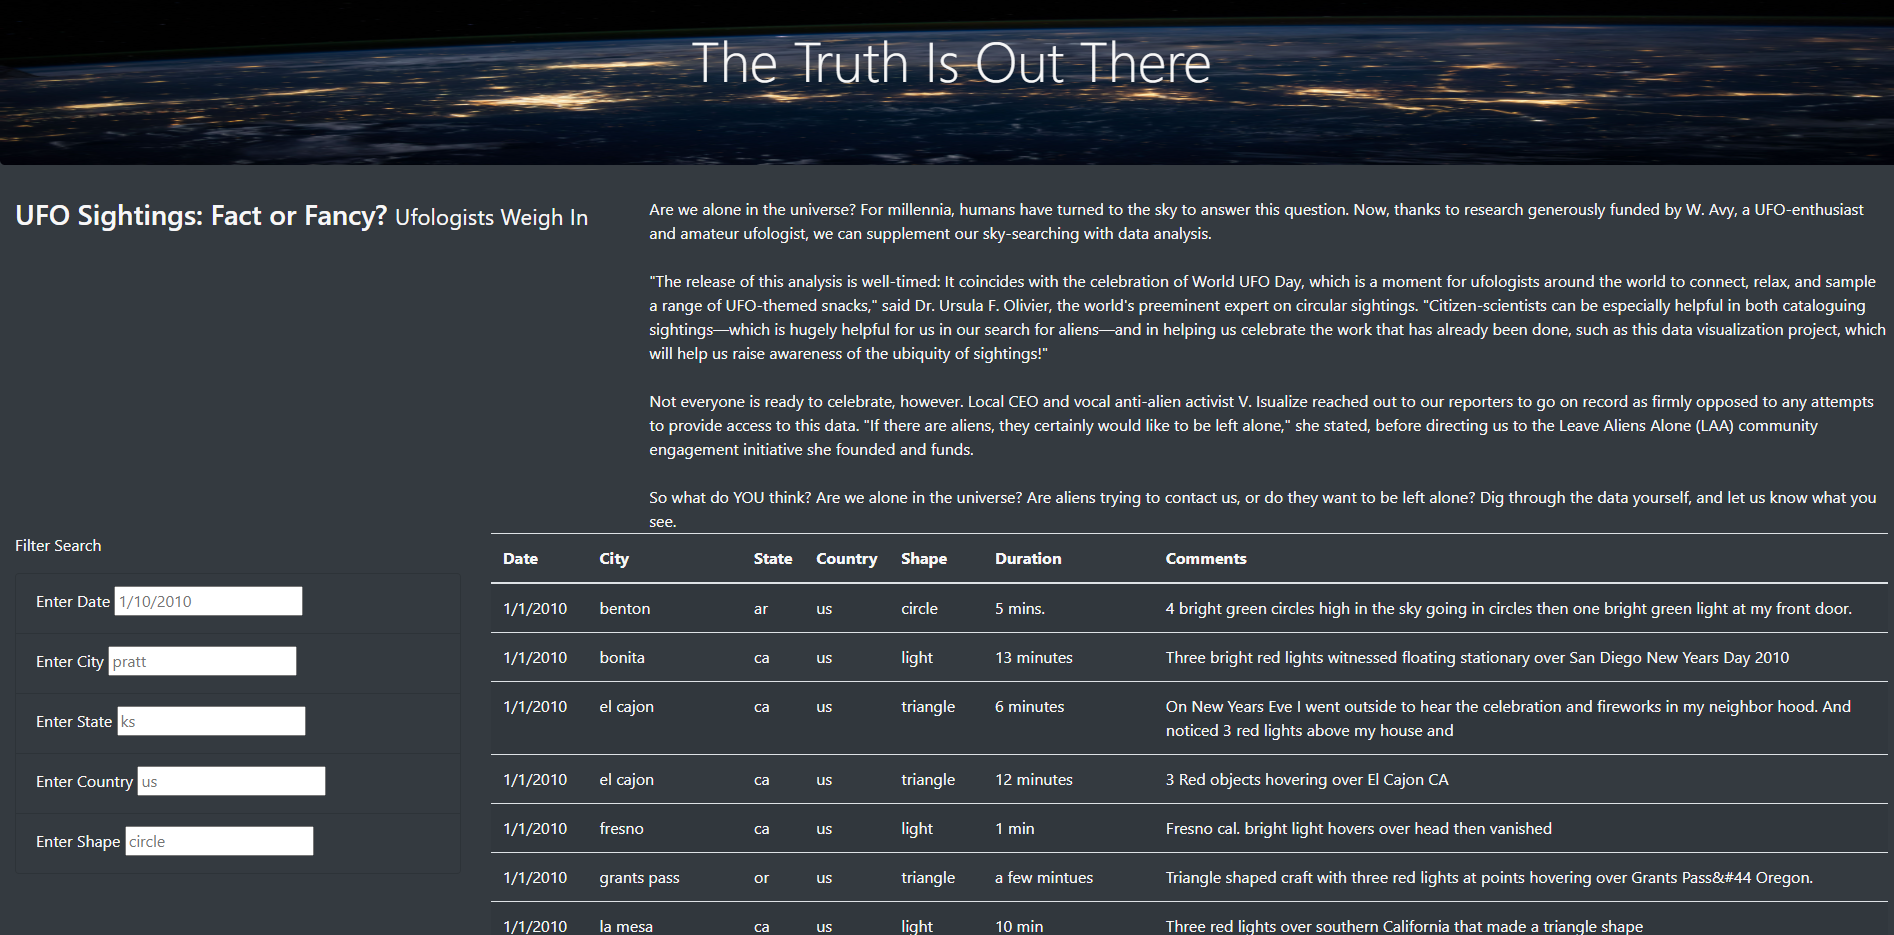
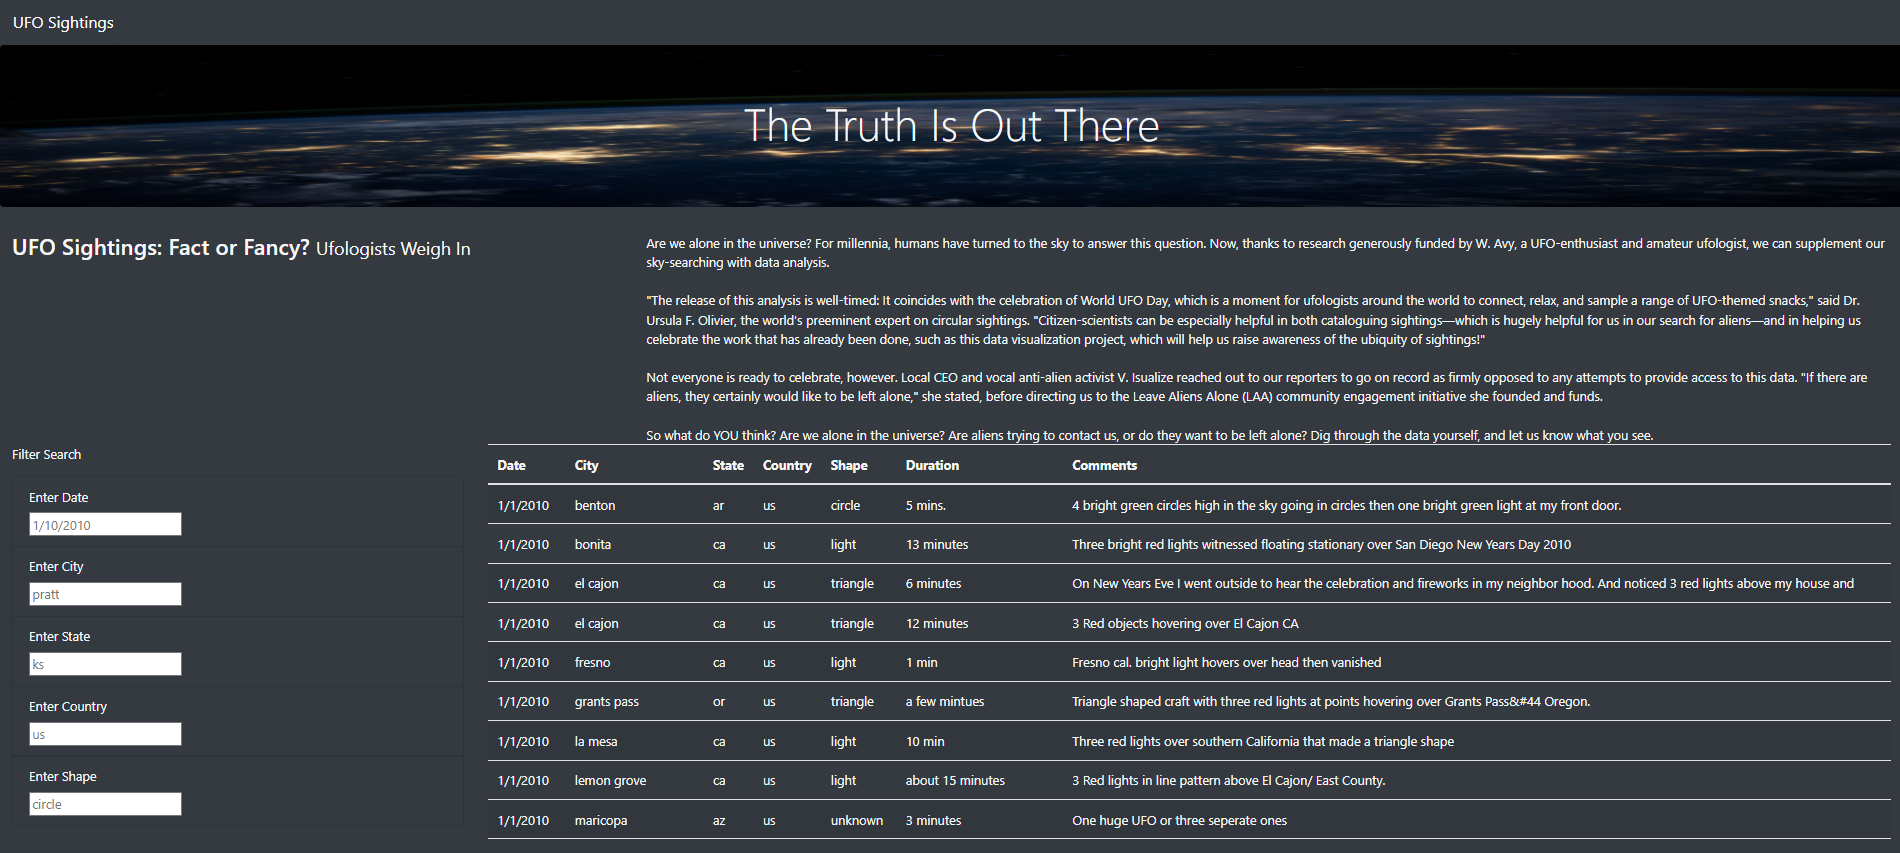
Index is updated to make it neater and images updated as well

diff --git a/index.html b/index.html
@@ -39,23 +39,23 @@
                 <p>Filter Search</p>
                     <ul class="list-group bg-dark">
                         <li class="list-group-item bg-dark">
-                            <label for="date">Enter Date</label>
+                            <label for="date">Enter Date</label><br>
                             <input type="text" placeholder="1/10/2010" id="datetime" />
                         </li>
                         <li class="list-group-item bg-dark">
-                            <label for="date">Enter City</label>
+                            <label for="date">Enter City</label><br>
                             <input type="text" placeholder="pratt" id="city" />
                         </li>
                         <li class="list-group-item bg-dark">
-                            <label for="date">Enter State</label>
+                            <label for="date">Enter State</label><br>
                             <input type="text" placeholder="ks" id="state" />
                         </li>
                         <li class="list-group-item bg-dark">
-                            <label for="date">Enter Country</label>
+                            <label for="date">Enter Country</label><br>
                             <input type="text" placeholder="us" id="country" />
                         </li>
                         <li class="list-group-item bg-dark">
-                            <label for="date">Enter Shape</label>
+                            <label for="date">Enter Shape</label><br>
                             <input type="text" placeholder="circle" id="shape" />
                         </li>
                     </ul>
